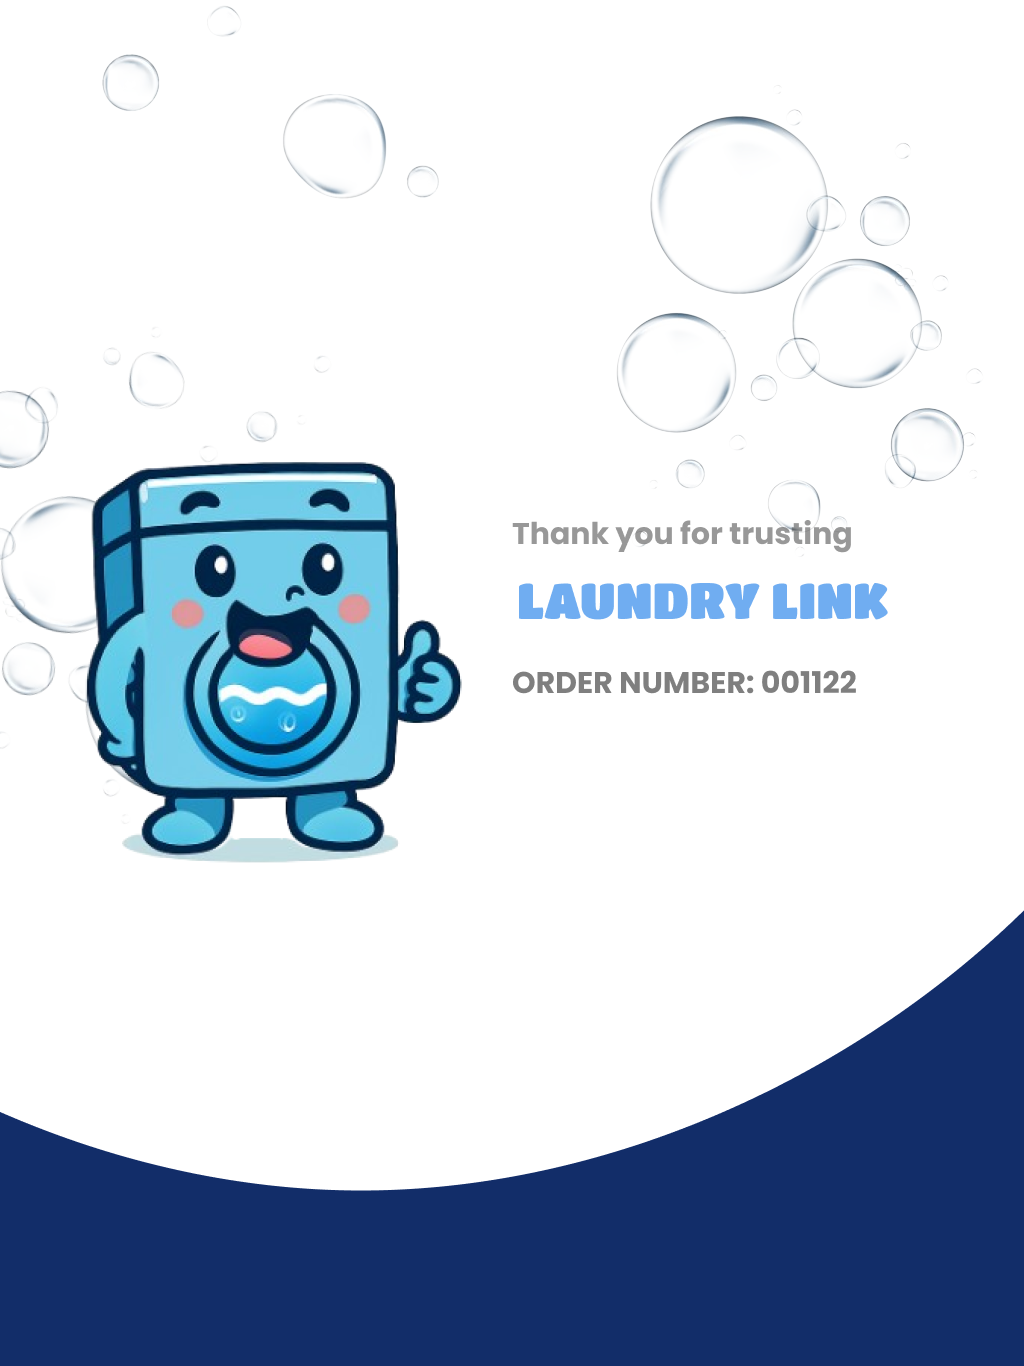
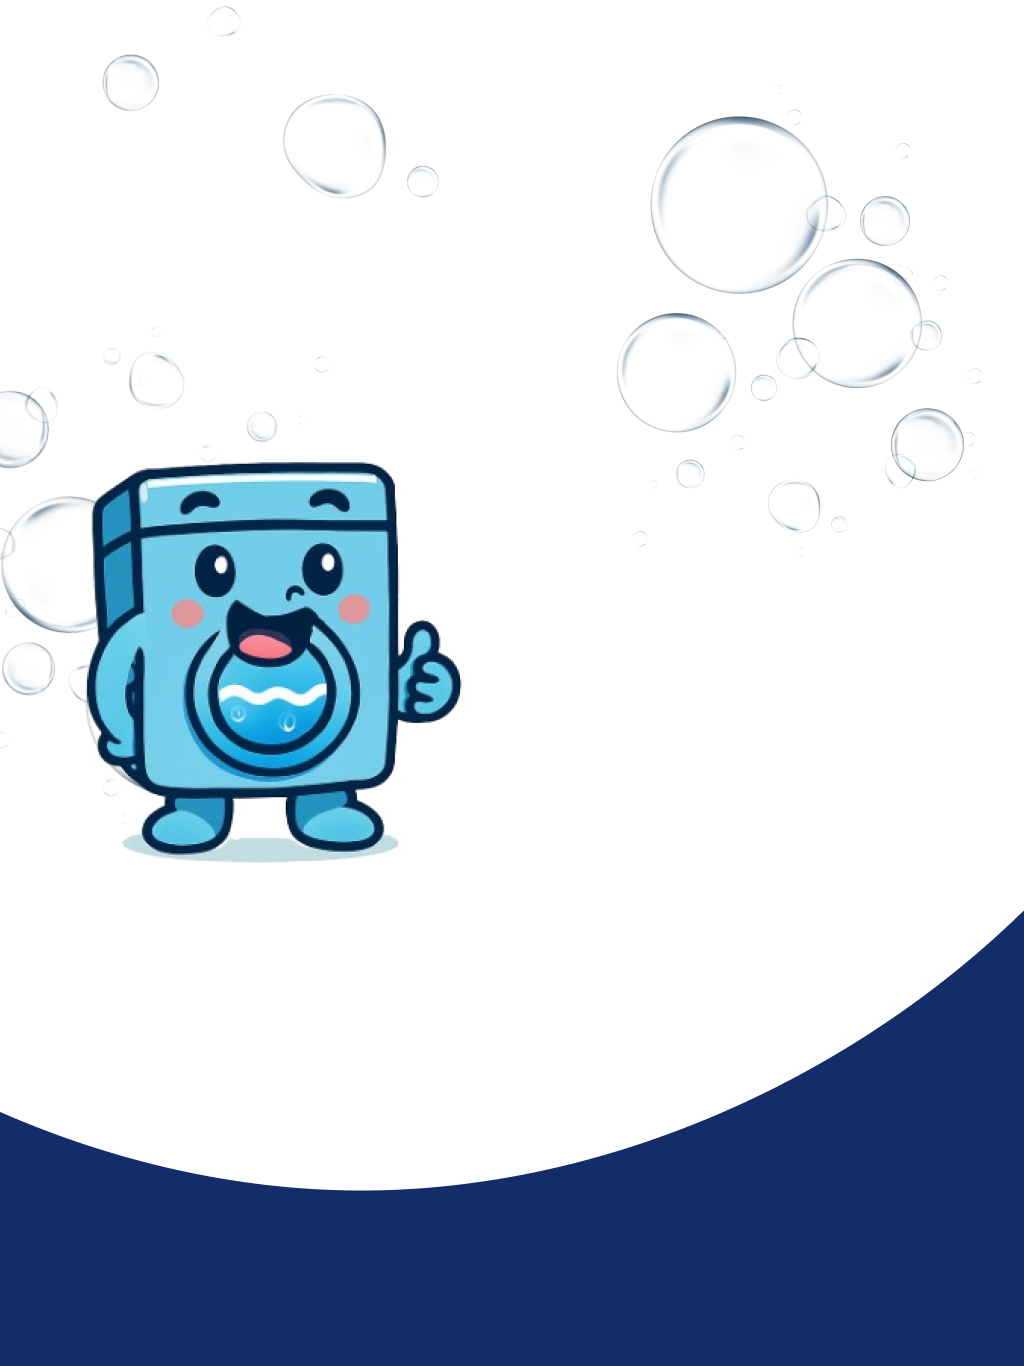
enhanced the thank you page

Changed region(s): [[0.5, 0.369, 0.875, 0.4612], [0.5, 0.4919, 0.8438, 0.5227]]

diff --git a/static/css/thank_you.css b/static/css/thank_you.css
@@ -43,46 +43,63 @@ body {
     padding: 20px;
 }
 
-.card {
-    background: rgba(255, 255, 255, 0.92);
-    backdrop-filter: blur(6px);
-    border-radius: 20px;
-    padding: 40px 32px;
-    max-width: 420px;
+.thank-you-container {
+    display: flex;
+    align-items: center;
+    justify-content: space-between;
+    max-width: 900px;
     width: 100%;
-    text-align: center;
-    box-shadow: 0px 15px 35px rgba(0, 0, 0, 0.18);
+    gap: 60px;
 }
 
-.icon {
-    width: 76px;
-    height: 76px;
-    margin: 0 auto 18px;
-    background: url("../images/thank_you_icon.png"), linear-gradient(135deg, #70ADF1 0%, #F2B456 100%);
-    background-size: cover;
+.content-left {
+    flex: 0 0 auto;
+    display: flex;
+    justify-content: center;
+    align-items: center;
+}
+
+.mascot-icon {
+    width: 200px;
+    height: 200px;
+    background: url("../images/thank_you_icon.png");
+    background-size: contain;
     background-position: center;
-    border-radius: 50%;
-    box-shadow: 0 8px 20px rgba(112, 173, 241, 0.4);
+    background-repeat: no-repeat;
+}
+
+.content-right {
+    flex: 1;
+    text-align: left;
+    display: flex;
+    flex-direction: column;
+    gap: 12px;
+}
+
+.subtitle {
+    margin: 0;
+    color: #666;
+    font-size: 18px;
+    font-weight: 400;
+    line-height: 1.4;
 }
 
 .title {
     margin: 0;
-    font-size: 34px;
+    font-size: 48px;
     color: #122D69;
     font-family: 'Titan One', cursive;
-}
-
-.subtitle {
-    margin: 10px 0 6px;
-    color: #333;
-    font-size: 16px;
+    font-weight: 700;
+    line-height: 1.2;
 }
 
 .order-id {
-    margin: 4px 0 18px;
+    margin: 0;
     color: #122D69;
     font-weight: 600;
-    font-size: 15px;
+    font-size: 16px;
+    text-transform: uppercase;
+    letter-spacing: 1px;
 }
 
 .primary-btn {
@@ -91,14 +108,19 @@ body {
     align-items: center;
     text-decoration: none;
     width: 100%;
-    height: 52px;
+    max-width: 240px;
+    height: 60px;
     background: linear-gradient(135deg, #F2B456 0%, #FDBB2D 100%);
     color: #122D69;
     font-weight: 700;
     font-size: 18px;
-    border-radius: 12px;
+    border-radius: 18px;
     box-shadow: 0px 8px 18px rgba(0, 0, 0, 0.18);
     transition: transform 0.15s ease, box-shadow 0.15s ease;
+    text-transform: uppercase;
+    letter-spacing: 1px;
+    margin-top: 12px;
+    align-self: flex-end;
 }
 
 .primary-btn:hover {
@@ -106,16 +128,96 @@ body {
     box-shadow: 0px 10px 22px rgba(0, 0, 0, 0.22);
 }
 
-@media screen and (max-width: 600px) {
-    .card {
-        padding: 32px 24px;
+/* Tablet Devices (800px - 1200px) - Optimized for tablets */
+@media screen and (min-width: 800px) and (max-width: 1200px) {
+    body {
+        height: 100vh;
+        width: 100vw;
     }
 
-    .title {
-        font-size: 30px;
+    .background-image {
+        height: 100vh;
+        width: 100vw;
+    }
+
+    .page-wrapper {
+        width: 100%;
+        height: 100%;
+        padding: 20px;
+    }
+
+    .thank-you-container {
+        max-width: 900px;
+        gap: 60px;
+    }
+
+    .mascot-icon {
+        width: 220px;
+        height: 220px;
+    }
+
+    .content-right {
+        text-align: justify;
+        text-align-last: right;
     }
 
     .subtitle {
+        font-size: 22px;
+    }
+
+    .title {
+        font-size: 56px;
+    }
+
+    .order-id {
+        font-size: 18px;
+    }
+
+    .primary-btn {
+        max-width: 280px;
+        height: 70px;
+        font-size: 20px;
+        border-radius: 20px;
+    }
+}
+
+@media screen and (max-width: 600px) {
+    .thank-you-container {
+        flex-direction: column;
+        gap: 25px;
+    }
+
+    .content-left {
+        width: 100%;
+    }
+
+    .mascot-icon {
+        width: 120px;
+        height: 120px;
+    }
+
+    .content-right {
+        width: 100%;
+        text-align: center;
+        align-items: center;
+    }
+
+    .subtitle {
+        font-size: 14px;
+    }
+
+    .title {
+        font-size: 32px;
+    }
+
+    .order-id {
+        font-size: 13px;
+    }
+
+    .primary-btn {
+        max-width: 180px;
+        height: 50px;
         font-size: 15px;
+        align-self: center;
     }
 }

diff --git a/templates/thank_you.html b/templates/thank_you.html
@@ -12,17 +12,21 @@
 </head>
 <body>
     <div class="background-image">
-        <img src="../static/images/staff_admin_background.png" alt="background">
+        <img src="../static/images/Thank you.png" alt="background">
     </div>
     <div class="page-wrapper">
-        <div class="card">
-            <div class="icon"></div>
-            <h1 class="title" data-translate="thank_you_title">Thank you!</h1>
-            <p class="subtitle" data-translate="confirmation_msg">Your order has been placed successfully.</p>
-            {% if order_id %}
-            <p class="order-id"><span data-translate="order_id_label">Order ID:</span> LL-{{ order_id }}</p>
-            {% endif %}
-            <a href="{{ url_for('service_type') }}" class="primary-btn" data-translate="order_again_btn">Order Again</a>
+        <div class="thank-you-container">
+            <div class="content-left">
+                <div class="mascot-icon"></div>
+            </div>
+            <div class="content-right">
+                <p class="subtitle" data-translate="confirmation_msg">Your order has been placed successfully.</p>
+                <h1 class="title" data-translate="thank_you_title">Thank you!</h1>
+                {% if order_id %}
+                <p class="order-id"><span data-translate="order_id_label">Order ID:</span> LL-{{ order_id }}</p>
+                {% endif %}
+                <a href="{{ url_for('service_type') }}" class="primary-btn" data-translate="order_again_btn">Order Again</a>
+            </div>
         </div>
     </div>
 </body>
